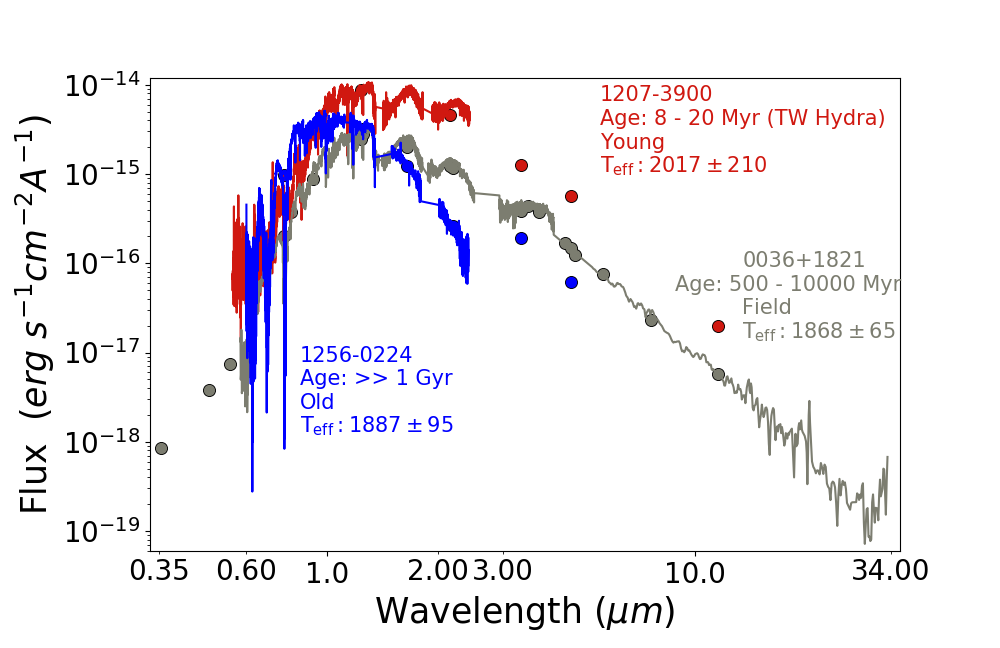
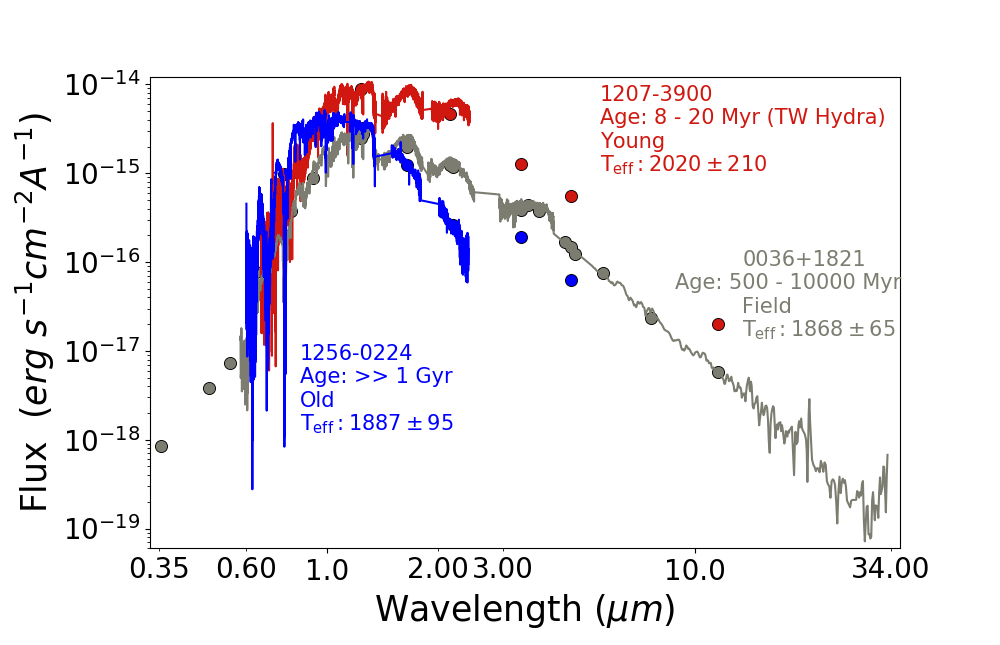
Remade SEDs and updated Teff and Lbol code to reflect new objects. New comp teff plot.

diff --git a/comparison_Teff.py b/comparison_Teff.py
@@ -11,8 +11,8 @@ df_1256 = pd.read_csv('Data/FIRE_rereduced1256-0224 (L3.5sd) SED.txt', sep=" ", 
 df_1256_phot = pd.read_csv('Data/FIRE_rereduced1256-0224 (L3.5sd) phot.txt', sep=" ", header=1, names=["w", "f", "err"])
 
 # -------------- Comparison objects of the same Teff ----------------------------------
-df_young = pd.read_csv('Data/1207-3900 (L0gamma) SED.txt', sep=" ", header=1, names=["w", "f", "err"])
-df_young_phot = pd.read_csv('Data/1207-3900 (L0gamma) phot.txt', sep=" ", header=1, names=["w", "f", "err"])
+df_young = pd.read_csv('Data/teff1207-3900 (L0gamma) SED.txt', sep=" ", header=1, names=["w", "f", "err"])
+df_young_phot = pd.read_csv('Data/teff1207-3900 (L0gamma) phot.txt', sep=" ", header=1, names=["w", "f", "err"])
 df_field = pd.read_csv('Data/0036+1821 (L3.5) SED.txt', sep=" ", header=1, names=["w", "f", "err"])
 df_field_phot = pd.read_csv('Data/0036+1821 (L3.5) phot.txt', sep=" ", header=1, names=["w", "f", "err"])
 
@@ -68,6 +68,6 @@ ax1.text(0.79, 0.45, 'T$_\mathrm{eff}:1868\pm 65$', transform=ax1.transAxes, col
 ax1.text(0.6, 0.95, '1207-3900', transform=ax1.transAxes, color='#D01810', fontsize=15)
 ax1.text(0.6, 0.9, 'Age: 8 - 20 Myr (TW Hydra)', transform=ax1.transAxes, color='#D01810', fontsize=15)
 ax1.text(0.6, 0.85, 'Young', transform=ax1.transAxes, color='#D01810', fontsize=15)
-ax1.text(0.6, 0.8, 'T$_\mathrm{eff}:2017\pm 210$', transform=ax1.transAxes, color='#D01810', fontsize=15)
+ax1.text(0.6, 0.8, 'T$_\mathrm{eff}:2020\pm 210$', transform=ax1.transAxes, color='#D01810', fontsize=15)
 
 plt.savefig('Plots/comparison_Teff.png')

diff --git a/compariosn_Lbol.py b/compariosn_Lbol.py
@@ -13,8 +13,8 @@ df_1256_phot = pd.read_csv('Data/FIRE_rereduced1256-0224 (L3.5sd) phot.txt', sep
 # -------------- Comparison objects of the same Lbol ----------------------------------
 df_young = pd.read_csv('Data/0501-0010 (L4gamma) SED.txt', sep=" ", header=1, names=["w", "f", "err"])
 df_young_phot = pd.read_csv('Data/0501-0010 (L4gamma) phot.txt', sep=" ", header=1, names=["w", "f", "err"])
-df_field = pd.read_csv('Data/lbol0445-3048 (L2) SED.txt', sep=" ", header=1, names=["w", "f", "err"])
-df_field_phot = pd.read_csv('Data/lbol0445-3048 (L2) phot.txt', sep=" ", header=1, names=["w", "f", "err"])
+df_field = pd.read_csv('Data/lbol0342-6817 (L2/) SED.txt', sep=" ", header=1, names=["w", "f", "err"])
+df_field_phot = pd.read_csv('Data/lbol0342-6817 (L2/) phot.txt', sep=" ", header=1, names=["w", "f", "err"])
 
 
 # -------------------------------------------------------------------------------------
